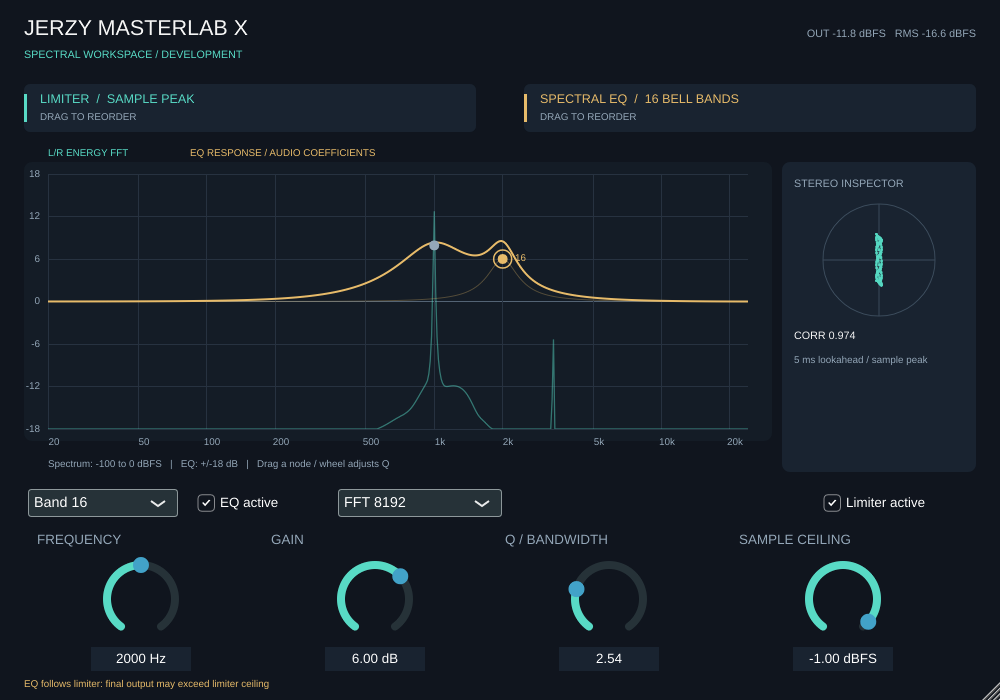
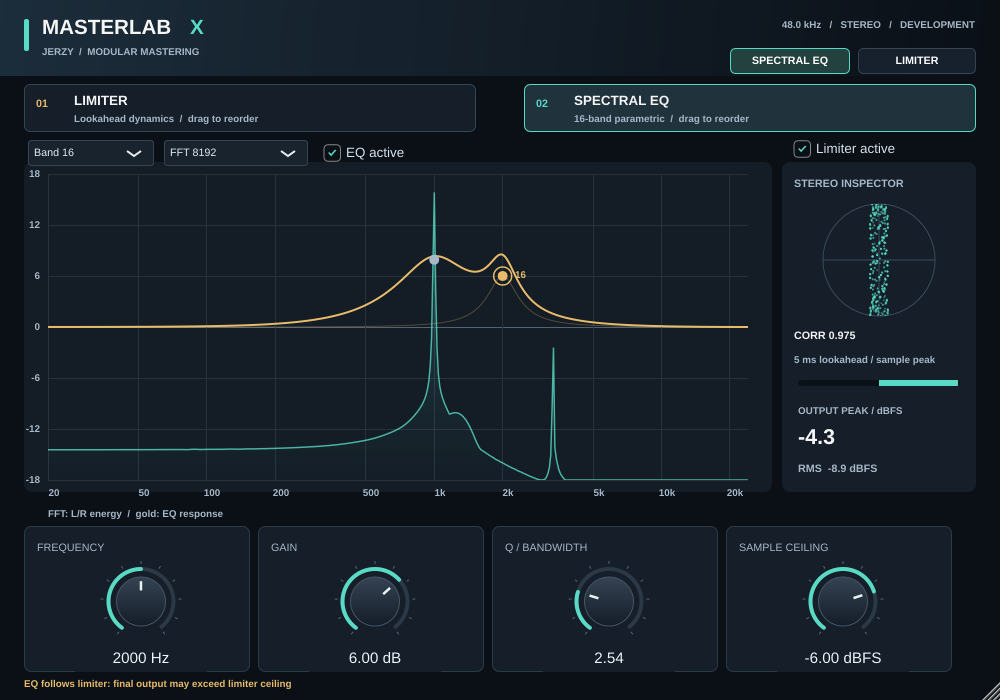
Redesign studio GUI with custom controls, clearer metering and compact workspaces

diff --git a/Source/Editor.h b/Source/Editor.h
@@ -1,5 +1,6 @@
 #pragma once
 #include "Analysis.h"
+#include "StudioTheme.h"
 
 // Included after Processor. GUI work and FFT never run in the audio callback.
 class Editor final : public juce::AudioProcessorEditor,
@@ -9,7 +10,7 @@ class Editor final : public juce::AudioProcessorEditor,
     using SliderAttachment = juce::AudioProcessorValueTreeState::SliderAttachment;
     using ButtonAttachment = juce::AudioProcessorValueTreeState::ButtonAttachment;
     Processor& processor;
-    juce::LookAndFeel_V4 theme;
+    StudioTheme theme;
     juce::TooltipWindow tooltips{this, 600};
     juce::ComboBox bandChoice, fftChoice;
     juce::TextButton eqView{"SPECTRAL EQ"}, limiterView{"LIMITER"};
@@ -25,38 +26,62 @@ class Editor final : public juce::AudioProcessorEditor,
         eqView.setToggleState(!enabled,juce::dontSendNotification);limiterView.setToggleState(enabled,juce::dontSendNotification);repaint();
     }
     void paintLimiter(juce::Graphics& g){
-        auto area=plot();g.setColour(panel);g.fillRoundedRectangle(area.expanded(24,12),8);
-        g.setFont(11);
-        for(int db:{0,6,12,18,24}){float y=area.getY()+area.getHeight()*db/24.f;g.setColour(juce::Colour(0xff344151));g.drawHorizontalLine(static_cast<int>(y),area.getX(),area.getRight());g.setColour(muted);g.drawText(juce::String(db),8,static_cast<int>(y)-8,32,16,juce::Justification::right);}
-        g.setColour(curve);g.drawText("GAIN REDUCTION ENVELOPE / dB",48,143,getWidth()-300,20,juce::Justification::left);
+        const auto area=plot();
+        const float split=area.getY()+area.getHeight()*.65f;
+        const float grHeight=split-area.getY()-22;
+        g.setColour(panel);g.fillRoundedRectangle(area.expanded(24,12),8);
+        g.setColour(juce::Colour(0xff0c131c));g.fillRect(area);
+        g.setFont(12);
+        for(int seconds=0;seconds<=10;seconds+=2){float x=area.getX()+area.getWidth()*seconds/10.f;g.setColour(juce::Colour(0xff24313e));g.drawVerticalLine(static_cast<int>(x),area.getY(),area.getBottom());g.setColour(muted);g.drawText(seconds==10?"NOW":juce::String(seconds-10)+" s",static_cast<int>(x)-18,static_cast<int>(area.getBottom())+5,40,18,juce::Justification::centred);}
+        for(int db:{0,6,12,18,24}){float y=area.getY()+grHeight*db/24.f;g.setColour(juce::Colour(0xff293645));g.drawHorizontalLine(static_cast<int>(y),area.getX(),area.getRight());g.setColour(muted);g.drawText(juce::String(db),8,static_cast<int>(y)-8,32,16,juce::Justification::right);}
+        g.setColour(curve);g.setFont(12);g.drawText("GAIN REDUCTION",48,144,170,20,juce::Justification::left);
+        g.setColour(muted);g.drawText("10 s  /  AUDIO CLOCK",getWidth()-476,144,224,20,juce::Justification::right);
+        g.setColour(accent);g.setFont(11);g.drawText("OUTPUT PEAK   -60 ... 0 dBFS",static_cast<int>(area.getX())+10,static_cast<int>(split)-18,240,18,juce::Justification::left);
+        g.setColour(juce::Colour(0xff354657));g.drawHorizontalLine(static_cast<int>(split),area.getX(),area.getRight());
         float maximumReduction=0,maximumPeak=0;
         if(historyCount){
             const auto latest=limiterHistory[(historyHead+999)%1000].endSample;
             const double duration=sampleRate()*10.;
-            juce::Path reduction,output;bool started=false;std::uint64_t previous=0;
+            juce::Path reduction,output,fill;bool started=false;std::uint64_t previous=0;float lastX=0;
             for(size_t i=0;i<historyCount;++i){const auto& frame=limiterHistory[(historyHead+1000-historyCount+i)%1000];
                 double age=static_cast<double>(latest-frame.endSample);if(age>duration)continue;
                 float x=area.getRight()-static_cast<float>(age/duration)*area.getWidth();
                 float gr=-juce::Decibels::gainToDecibels(frame.minimumGain,-120.f);
-                float y=area.getY()+area.getHeight()*juce::jlimit(0.f,1.f,gr/24.f);
+                float y=area.getY()+grHeight*juce::jlimit(0.f,1.f,gr/24.f);
                 float peakDb=juce::Decibels::gainToDecibels(frame.outputPeak,-100.f);
-                float py=area.getBottom()-area.getHeight()*juce::jlimit(0.f,1.f,(peakDb+60)/60.f);
+                float py=area.getBottom()-(area.getBottom()-split-8)*juce::jlimit(0.f,1.f,(peakDb+60)/60.f);
                 const bool gap=started&&frame.endSample-previous>std::ceil(sampleRate()*.01)+1;
-                if(!started||gap){reduction.startNewSubPath(x,y);output.startNewSubPath(x,py);}else{reduction.lineTo(x,y);output.lineTo(x,py);}
-                started=true;previous=frame.endSample;maximumReduction=std::max(maximumReduction,gr);maximumPeak=std::max(maximumPeak,frame.outputPeak);
+                if(!started||gap){if(started){fill.lineTo(lastX,area.getY());fill.closeSubPath();}reduction.startNewSubPath(x,y);output.startNewSubPath(x,py);fill.startNewSubPath(x,area.getY());fill.lineTo(x,y);}else{reduction.lineTo(x,y);output.lineTo(x,py);fill.lineTo(x,y);}
+                started=true;previous=frame.endSample;lastX=x;maximumReduction=std::max(maximumReduction,gr);maximumPeak=std::max(maximumPeak,frame.outputPeak);
             }
-            juce::Graphics::ScopedSaveState save(g);g.reduceClipRegion(area.toNearestInt());g.setColour(accent.withAlpha(.55f));g.strokePath(output,juce::PathStrokeType(1.2f));g.setColour(curve);g.strokePath(reduction,juce::PathStrokeType(2));
+            if(started){fill.lineTo(lastX,area.getY());fill.closeSubPath();}
+            juce::Graphics::ScopedSaveState save(g);g.reduceClipRegion(area.toNearestInt());
+            g.setGradientFill(juce::ColourGradient(curve.withAlpha(.23f),0,area.getY(),curve.withAlpha(.04f),0,split,false));g.fillPath(fill);
+            g.setColour(accent.withAlpha(.10f));g.strokePath(output,juce::PathStrokeType(5));g.setColour(accent);g.strokePath(output,juce::PathStrokeType(1.6f));
+            g.setColour(curve.withAlpha(.10f));g.strokePath(reduction,juce::PathStrokeType(7));g.setColour(curve);g.strokePath(reduction,juce::PathStrokeType(2));
         }
-        int x=getWidth()-218;g.setColour(panel);g.fillRoundedRectangle(static_cast<float>(x),162.f,194.f,static_cast<float>(getHeight()-390),8);
-        g.setColour(juce::Colours::whitesmoke);g.setFont(13);g.drawText("LIMITER INSPECTOR",x+12,174,174,20,juce::Justification::left);
-        g.setFont(12);g.drawText("GR max / 10 s: "+juce::String(maximumReduction,1)+" dB",x+12,207,174,20,juce::Justification::left);
-        g.drawText("Out max: "+juce::String(juce::Decibels::gainToDecibels(maximumPeak),1)+" dBFS",x+12,231,174,20,juce::Justification::left);
-        g.setColour(muted);g.drawText("PDC: "+juce::String(processor.getLatencySamples())+" samples",x+12,255,174,20,juce::Justification::left);
-        g.setFont(11);g.drawText("Lookahead 5 ms / release "+juce::String(processor.state.getRawParameterValue("limiterRelease")->load(),1)+" ms",48,static_cast<int>(area.getBottom())+5,getWidth()-300,20,juce::Justification::left);
-        g.drawText("10 s audio history | GR: 0..24 dB | teal: output -60..0 dBFS",48,static_cast<int>(area.getBottom())+25,getWidth()-300,20,juce::Justification::left);
-        g.drawText("Envelope includes route/bypass blend; not total chain attenuation.",28,getHeight()-226,getWidth()-240,20,juce::Justification::left);
-        g.drawText("SAMPLE PEAK ONLY / NO TRUE PEAK",28,getHeight()-203,getWidth()-240,20,juce::Justification::left);
-        if(!historyCount||juce::Time::getMillisecondCounterHiRes()-lastLimiterUpdate>500)g.drawText("No new audio / history held",x+12,280,174,20,juce::Justification::left);
+        const int x=getWidth()-218;
+        g.setColour(panel);g.fillRoundedRectangle(static_cast<float>(x),162.f,194.f,area.getHeight()+36,8);
+        g.setColour(muted);g.setFont(12);g.drawText("MASTER OUTPUT",x+16,176,162,20,juce::Justification::left);
+        g.setColour(juce::Colours::whitesmoke);g.setFont(juce::Font(juce::FontOptions(34.f,juce::Font::bold)));g.drawText(juce::String(juce::Decibels::gainToDecibels(processor.peak.load()),1),x+16,202,150,42,juce::Justification::left);
+        g.setColour(muted);g.setFont(12);g.drawText("SAMPLE PEAK / dBFS",x+16,244,162,18,juce::Justification::left);
+        g.setColour(curve);g.setFont(24);g.drawText(juce::String(maximumReduction,1)+" dB",x+16,274,162,30,juce::Justification::left);
+        g.setColour(muted);g.setFont(11);g.drawText("MAX GR / VISIBLE HISTORY",x+16,307,166,18,juce::Justification::left);
+        if(area.getHeight()>235){
+            const float top=345,bottom=area.getBottom()-10,height=bottom-top;
+            for(int k=0;k<2;++k){float level=k==0?processor.peak.load():processor.rms.load();float db=juce::Decibels::gainToDecibels(level,-60.f);float f=juce::jlimit(0.f,1.f,(db+60)/60);
+                float bx=x+20.f+k*76;g.setColour(juce::Colour(0xff0a1119));g.fillRoundedRectangle(bx,top,52,height,4);
+                g.setGradientFill(juce::ColourGradient(accent,bx,bottom-height,juce::Colour(0xff267d86),bx,bottom,false));g.fillRect(bx,bottom-height*f,52.f,height*f);
+                g.setColour(muted);g.setFont(11);g.drawText(k==0?"PEAK":"RMS",static_cast<int>(bx),static_cast<int>(bottom)+4,52,16,juce::Justification::centred);
+            }
+        }
+        const int dock=getHeight()-174,cell=(getWidth()-64)/4;
+        g.setColour(muted);g.setFont(12);g.drawText("LOOKAHEAD",48+cell*2,dock+15,cell-32,20,juce::Justification::left);
+        g.setColour(juce::Colours::whitesmoke);g.setFont(26);g.drawText("5.0 ms",48+cell*2,dock+41,cell-32,32,juce::Justification::left);
+        g.setColour(muted);g.setFont(12);g.drawText("PDC  "+juce::String(processor.getLatencySamples())+" samples",48+cell*2,dock+88,cell-32,20,juce::Justification::left);
+        g.drawText(juce::String(sampleRate()/1000,1)+" kHz / stereo",48+cell*2,dock+109,cell-32,20,juce::Justification::left);
+
+        if(!historyCount||juce::Time::getMillisecondCounterHiRes()-lastLimiterUpdate>500){g.setColour(muted);g.drawText("WAITING FOR AUDIO",area.toNearestInt().reduced(10),juce::Justification::centred);}
     }
     juce::Slider frequency, gain, quality, ceiling, drive, release;
     juce::Label frequencyLabel, gainLabel, qualityLabel, ceilingLabel, driveLabel, releaseLabel;
@@ -74,7 +99,7 @@ class Editor final : public juce::AudioProcessorEditor,
     double lastAnalysis=0;
     std::array<juce::Point<float>,1024> scope{};
     int head = 0;
-    const juce::Colour background{0xff10151e}, panel{0xff192330}, muted{0xff94a7b8};
+    const juce::Colour background{0xff0b1017}, panel{0xff151e29}, muted{0xffa7b8c8};
     const juce::Colour accent{0xff58dac5}, curve{0xffe7bb6a};
 
     juce::String parameterId(const char* base, int band) const {
@@ -85,7 +110,7 @@ class Editor final : public juce::AudioProcessorEditor,
     }
     double sampleRate() const { return processor.displayRate.load(); }
     juce::Rectangle<float> plot() const {
-        return {48.f, 174.f, std::max(200.f, getWidth() - 300.f), std::max(100.f, getHeight() - 445.f)};
+        return {48.f, 174.f, std::max(200.f, getWidth() - 300.f), std::max(100.f, getHeight() - 394.f)};
     }
     float xForFrequency(double hz) const {
         auto area = plot();
@@ -146,7 +171,7 @@ class Editor final : public juce::AudioProcessorEditor,
         addAndMakeVisible(slider);addAndMakeVisible(label);
         label.setText(name,juce::dontSendNotification);label.setColour(juce::Label::textColourId,muted);
         slider.setSliderStyle(juce::Slider::RotaryHorizontalVerticalDrag);
-        slider.setTextBoxStyle(juce::Slider::TextBoxBelow,false,100,24);
+        slider.setTextBoxStyle(juce::Slider::TextBoxBelow,false,132,28);
         slider.setComponentID(id);slider.setColour(juce::Slider::rotarySliderFillColourId,accent);
     }
 public:
@@ -187,17 +212,17 @@ public:
         eqView.onClick=[this]{showLimiter(false);};limiterView.onClick=[this]{showLimiter(true);};
         eqView.setClickingTogglesState(false);limiterView.setClickingTogglesState(false);
         selectBand(0);showLimiter(false);
-        setResizable(true,true);setResizeLimits(750,550,2000,1400);setSize(1100,720);startTimerHz(30);
+        setResizable(true,true);setResizeLimits(750,550,2000,1400);setSize(1200,800);startTimerHz(30);
     }
     ~Editor() override {stopTimer();endDrag();setLookAndFeel(nullptr);}
     void resized() override {
         eqView.setBounds(getWidth()-270,48,120,26);limiterView.setBounds(getWidth()-142,48,118,26);
-        const int top=getHeight()-171,width=(getWidth()-64)/4;
-        for(int i=0;i<4;++i){auto* label=std::array<juce::Label*,4>{&frequencyLabel,&gainLabel,&qualityLabel,&ceilingLabel}[i];auto* slider=std::array<juce::Slider*,4>{&frequency,&gain,&quality,&ceiling}[i];label->setBounds(32+i*width,top,width-12,22);slider->setBounds(32+i*width,top+22,width-16,120);}
-        driveLabel.setBounds(32,top,width-12,22);drive.setBounds(32,top+22,width-16,120);
-        releaseLabel.setBounds(32+width,top,width-12,22);release.setBounds(32+width,top+22,width-16,120);
-        bandChoice.setBounds(28,getHeight()-211,150,28);fftChoice.setBounds(338,getHeight()-211,164,28);
-        eqEnabled.setBounds(194,getHeight()-211,125,28);limiterEnabled.setBounds(getWidth()-180,getHeight()-211,160,28);
+        const int top=getHeight()-163,width=(getWidth()-64)/4;
+        for(int i=0;i<4;++i){auto* label=std::array<juce::Label*,4>{&frequencyLabel,&gainLabel,&qualityLabel,&ceilingLabel}[i];auto* slider=std::array<juce::Slider*,4>{&frequency,&gain,&quality,&ceiling}[i];label->setBounds(32+i*width,top,width-12,22);slider->setBounds(32+i*width,top+22,width-16,113);}
+        driveLabel.setBounds(32,top,width-12,22);drive.setBounds(32,top+22,width-16,113);
+        releaseLabel.setBounds(32+width,top,width-12,22);release.setBounds(32+width,top+22,width-16,113);
+        bandChoice.setBounds(28,140,126,26);fftChoice.setBounds(164,140,144,26);
+        eqEnabled.setBounds(320,140,125,26);limiterEnabled.setBounds(getWidth()-210,136,186,26);
     }
     bool isInterestedInDragSource(const SourceDetails& details) override {return details.description=="eq"||details.description=="limiter";}
     void itemDropped(const SourceDetails& details) override {
@@ -223,19 +248,33 @@ public:
         bool right=event.getMouseDownX()>getWidth()/2,first=processor.state.getRawParameterValue("order")->load()>.5f;
         startDragging((right?!first:first)?"limiter":"eq",this);
     }
-    void mouseUp(const juce::MouseEvent&) override {endDrag();}
+    void mouseUp(const juce::MouseEvent& event) override {
+        const bool moved=event.mouseWasDraggedSinceMouseDown();endDrag();
+        if(!moved&&event.position.y>=84&&event.position.y<=132){bool first=processor.state.getRawParameterValue("order")->load()>.5f;showLimiter(event.position.x>getWidth()/2?!first:first);}
+    }
     void mouseWheelMove(const juce::MouseEvent& event,const juce::MouseWheelDetails& wheel) override {
         if(!showingLimiter&&plot().contains(event.position)&&event.position.getDistanceFrom(node(selectedBand))<24){setParameter("q",juce::jlimit(.1f,10.f,value("q",selectedBand)*std::exp(wheel.deltaY*2)),true);repaint();}
         else AudioProcessorEditor::mouseWheelMove(event,wheel);
     }
     void paint(juce::Graphics& g) override {
-        g.fillAll(background);g.setColour(juce::Colours::whitesmoke);g.setFont(24);
-        g.drawText("JERZY MASTERLAB X",24,13,getWidth()-300,30,juce::Justification::left);
-        g.setColour(accent);g.setFont(12);g.drawText(showingLimiter?"LIMITER WORKSPACE / DEVELOPMENT":"SPECTRAL WORKSPACE / DEVELOPMENT",24,44,420,22,juce::Justification::left);
-        g.setColour(muted);g.drawText("OUT "+juce::String(juce::Decibels::gainToDecibels(processor.peak.load()),1)+" dBFS   RMS "+juce::String(juce::Decibels::gainToDecibels(processor.rms.load()),1)+" dBFS",getWidth()-330,22,306,24,juce::Justification::right);
+        g.fillAll(background);
+        g.setGradientFill(juce::ColourGradient(juce::Colour(0xff1c2d3b),0,0,background,static_cast<float>(getWidth()),100,false));g.fillRect(0,0,getWidth(),76);
+        g.setColour(accent);g.fillRoundedRectangle(24.f,19.f,5.f,32.f,2);
+        g.setColour(juce::Colours::whitesmoke);g.setFont(juce::Font(juce::FontOptions(23.f,juce::Font::bold)));g.drawText("MASTERLAB",42,12,190,30,juce::Justification::left);
+        g.setColour(accent);g.drawText("X",190,12,40,30,juce::Justification::left);
+        g.setColour(muted);g.setFont(11);g.drawText("JERZY  /  MODULAR MASTERING",42,43,300,18,juce::Justification::left);
+        g.drawText(juce::String(sampleRate()/1000,1)+" kHz   /   STEREO   /   DEVELOPMENT",getWidth()-335,14,310,22,juce::Justification::right);
+        const int dock=getHeight()-174,cell=(getWidth()-64)/4;
+        for(int i=0;i<4;++i){g.setColour(panel);g.fillRoundedRectangle(static_cast<float>(24+i*cell),static_cast<float>(dock),static_cast<float>(cell-8),146.f,7);g.setColour(juce::Colour(0xff2b3a49));g.drawRoundedRectangle(static_cast<float>(24+i*cell)+.5f,static_cast<float>(dock)+.5f,static_cast<float>(cell-9),145.f,7,1);}
         bool first=processor.state.getRawParameterValue("order")->load()>.5f;
-        for(int i=0;i<2;++i){int x=24+i*(getWidth()/2);g.setColour(panel);g.fillRoundedRectangle(static_cast<float>(x),84.f,getWidth()*.5f-48,48,6);g.setColour(i==0?accent:curve);g.fillRect(x,94,3,28);g.setFont(14);g.drawText((i==0?!first:first)?"SPECTRAL EQ  /  16 BELL BANDS":"LIMITER  /  SAMPLE PEAK",x+16,89,getWidth()/2-70,20,juce::Justification::left);g.setColour(muted);g.setFont(11);g.drawText("DRAG TO REORDER",x+16,109,220,16,juce::Justification::left);}
-        if(showingLimiter){paintLimiter(g);if(first){g.setColour(curve);g.drawText("EQ follows limiter: final output may exceed limiter ceiling",24,getHeight()-25,getWidth()-48,18,juce::Justification::left);}return;}
+        for(int i=0;i<2;++i){int x=24+i*(getWidth()/2);bool isEq=i==0?!first:first,active=isEq?!showingLimiter:showingLimiter;auto colour=isEq?accent:curve;
+            g.setColour(active?juce::Colour(0xff20323c):panel);g.fillRoundedRectangle(static_cast<float>(x),84.f,getWidth()*.5f-48,48,6);
+            g.setColour(active?colour:juce::Colour(0xff354553));g.drawRoundedRectangle(static_cast<float>(x)+.5f,84.5f,getWidth()*.5f-49,47,6,1);
+            g.setColour(colour);g.setFont(12);g.drawText("0"+juce::String(i+1),x+12,92,30,24,juce::Justification::left);
+            g.setColour(juce::Colours::whitesmoke);g.setFont(juce::Font(juce::FontOptions(15.f,juce::Font::bold)));g.drawText(isEq?"SPECTRAL EQ":"LIMITER",x+50,90,getWidth()/2-116,22,juce::Justification::left);
+            g.setColour(muted);g.setFont(11);g.drawText(isEq?"16-band parametric  /  drag to reorder":"Lookahead dynamics  /  drag to reorder",x+50,111,getWidth()/2-116,16,juce::Justification::left);
+        }
+        if(showingLimiter){paintLimiter(g);g.setColour(first?curve:muted);g.setFont(11);g.drawText(first?"EQ follows limiter: final output may exceed limiter ceiling":"SAMPLE PEAK  /  True Peak unavailable",24,getHeight()-25,getWidth()-48,18,juce::Justification::left);return;}
         auto area=plot();g.setColour(juce::Colour(0xff141c26));g.fillRoundedRectangle(area.expanded(24,12),8);
         g.setFont(11);
         for(float db:{-18.f,-12.f,-6.f,0.f,6.f,12.f,18.f}){float y=yForGain(db);g.setColour(db==0?juce::Colour(0xff536374):juce::Colour(0xff273240));g.drawHorizontalLine(static_cast<int>(y),area.getX(),area.getRight());g.setColour(muted);g.drawText(juce::String(db,0),8,static_cast<int>(y)-8,32,16,juce::Justification::right);}
@@ -244,17 +283,25 @@ public:
             for(int i=0;i<512;++i){double hz=20*std::pow(sampleRate()*.5/20,i/511.);float x=area.getX()+area.getWidth()*i/511.f;float binPosition=juce::jlimit(0.f,static_cast<float>((1<<fftOrder)/2-1),static_cast<float>(hz*(1<<fftOrder)/sampleRate()));int bin=static_cast<int>(binPosition);float level=spectrum[bin]+(binPosition-bin)*(spectrum[bin+1]-spectrum[bin]);float db=juce::Decibels::gainToDecibels(level,-100.f);float sy=area.getBottom()-area.getHeight()*juce::jlimit(0.f,1.f,(db+100)/100.f);
                 if(i==0)spectral.startNewSubPath(x,sy);else spectral.lineTo(x,sy);
                 if(haveResponse){std::complex<double> transfer{1,0};for(const auto& band:response.bands)transfer*=band.response(response.rate,hz);transfer=(1.-response.eqMix)+static_cast<double>(response.eqMix)*transfer;float y=yForGain(static_cast<float>(20*std::log10(std::max(1e-12,std::abs(transfer)))));if(i==0)total.startNewSubPath(x,y);else total.lineTo(x,y);}}
-            g.setColour(accent.withAlpha(.48f));g.strokePath(spectral,juce::PathStrokeType(1.3f));
+            auto spectralFill=spectral;spectralFill.lineTo(area.getRight(),area.getBottom());spectralFill.lineTo(area.getX(),area.getBottom());spectralFill.closeSubPath();g.setGradientFill(juce::ColourGradient(accent.withAlpha(.22f),0,area.getY(),accent.withAlpha(.01f),0,area.getBottom(),false));g.fillPath(spectralFill);g.setColour(accent.withAlpha(.8f));g.strokePath(spectral,juce::PathStrokeType(1.5f));
             if(haveResponse){juce::Path individual;for(int i=0;i<512;++i){double hz=20*std::pow(sampleRate()*.5/20,i/511.);float x=area.getX()+area.getWidth()*i/511.f;float y=yForGain(static_cast<float>(20*std::log10(std::max(1e-12,response.bands[selectedBand].magnitude(response.rate,hz)))));if(i==0)individual.startNewSubPath(x,y);else individual.lineTo(x,y);}g.setColour(curve.withAlpha(.3f));g.strokePath(individual,juce::PathStrokeType(1));g.setColour(curve);g.strokePath(total,juce::PathStrokeType(2));}
             for(int i=0;i<16;++i){if(i!=selectedBand&&std::abs(value("gain",i))<.01f)continue;auto position=node(i);g.setColour(i==selectedBand?curve:muted);g.fillEllipse(position.x-5,position.y-5,10,10);if(i==selectedBand){g.drawEllipse(position.x-9,position.y-9,18,18,1.5f);g.setFont(11);g.drawText(juce::String(i+1),static_cast<int>(position.x)+13,static_cast<int>(position.y)-12,26,22,juce::Justification::left);}}
         }
-        int inspectorX=getWidth()-218;g.setColour(panel);g.fillRoundedRectangle(static_cast<float>(inspectorX),162.f,194.f,static_cast<float>(getHeight()-390),8);g.setColour(muted);g.setFont(12);g.drawText("STEREO INSPECTOR",inspectorX+12,174,170,20,juce::Justification::left);
+        int inspectorX=getWidth()-218;g.setColour(panel);g.fillRoundedRectangle(static_cast<float>(inspectorX),162.f,194.f,static_cast<float>(getHeight()-370),8);g.setColour(muted);g.setFont(12);g.drawText("STEREO INSPECTOR",inspectorX+12,174,170,20,juce::Justification::left);
         const float radius=std::min(56.f,(getHeight()-488.f)*.5f),cx=inspectorX+97.f,cy=204.f+radius;g.setColour(juce::Colour(0xff3c4c5c));g.drawEllipse(cx-radius,cy-radius,2*radius,2*radius,1);g.drawLine(cx-radius,cy,cx+radius,cy);g.drawLine(cx,cy-radius,cx,cy+radius);
         {juce::Graphics::ScopedSaveState save(g);g.reduceClipRegion(juce::Rectangle<int>(inspectorX+24,204,146,static_cast<int>(radius*2)));g.setColour(accent.withAlpha(.45f));for(auto point:scope)g.fillEllipse(cx+point.x*radius-1,cy-point.y*radius-1,2,2);}
         g.setColour(juce::Colours::whitesmoke);g.drawText("CORR "+juce::String(processor.correlation.load(),3),inspectorX+12,static_cast<int>(cy+radius+10),170,20,juce::Justification::left);
         g.setColour(muted);g.setFont(11);g.drawText("5 ms lookahead / sample peak",inspectorX+12,static_cast<int>(cy+radius+34),170,20,juce::Justification::left);
-        g.setColour(accent);g.drawText("L/R ENERGY FFT",48,143,130,20,juce::Justification::left);g.setColour(curve);g.drawText(haveResponse?"EQ RESPONSE / AUDIO COEFFICIENTS":"EQ RESPONSE / WAITING FOR AUDIO",190,143,getWidth()-450,20,juce::Justification::left);
-        g.setColour(muted);g.setFont(11);g.drawText("Spectrum: -100 to 0 dBFS   |   EQ: +/-18 dB   |   Drag a node / wheel adjusts Q",48,static_cast<int>(area.getBottom())+25,getWidth()-300,20,juce::Justification::left);
+        const float correlation=juce::jlimit(-1.f,1.f,processor.correlation.load());
+        const float barY=cy+radius+64;
+        g.setColour(juce::Colour(0xff0a1119));g.fillRoundedRectangle(inspectorX+16.f,barY,162,6,3);
+        g.setColour(correlation<0?juce::Colour(0xffe68a79):accent);float correlationX=inspectorX+97.f+correlation*81.f;g.fillRect(std::min(inspectorX+97.f,correlationX),barY,std::max(1.f,std::abs(correlation)*81.f),6.f);
+        if(getHeight()>650){g.setColour(muted);g.setFont(11);g.drawText("OUTPUT PEAK / dBFS",inspectorX+16,static_cast<int>(barY)+22,162,18,juce::Justification::left);
+            g.setColour(juce::Colours::whitesmoke);g.setFont(24);g.drawText(juce::String(juce::Decibels::gainToDecibels(processor.peak.load()),1),inspectorX+16,static_cast<int>(barY)+42,162,30,juce::Justification::left);
+            g.setColour(muted);g.setFont(12);g.drawText("RMS  "+juce::String(juce::Decibels::gainToDecibels(processor.rms.load()),1)+" dBFS",inspectorX+16,static_cast<int>(barY)+80,162,18,juce::Justification::left);
+        }
+        g.setColour(muted);g.setFont(11);g.drawText("FFT: L/R energy  /  gold: EQ response",48,static_cast<int>(area.getBottom())+25,getWidth()-300,18,juce::Justification::left);
+        g.setColour(muted);g.setFont(11);if(!first)g.drawText("Drag nodes to shape tone  /  Mouse wheel adjusts Q",24,getHeight()-25,getWidth()-48,18,juce::Justification::left);
         if(first){g.setColour(curve);g.drawText("EQ follows limiter: final output may exceed limiter ceiling",24,getHeight()-25,getWidth()-48,18,juce::Justification::left);}
     }
 };

diff --git a/tests/GuiSmoke.h b/tests/GuiSmoke.h
@@ -10,7 +10,7 @@ class GuiSmoke final : private juce::Timer {
     juce::RangedAudioParameter* parameter(const char* id){for(auto* p:processor.getParameters())if(auto* ranged=dynamic_cast<juce::RangedAudioParameter*>(p))if(ranged->paramID==id)return ranged;return nullptr;}
     float actual(const char* id){auto* p=parameter(id);return p->convertFrom0to1(p->getValue());}
     void open(){editor.reset(processor.createEditor());editor->addToDesktop(0);editor->setVisible(true);phase=0;}
-    void feed(int blocks){juce::AudioBuffer<float> buffer(2,256);juce::MidiBuffer midi;for(int block=0;block<blocks;++block){for(int i=0;i<256;++i,++sample){buffer.setSample(0,i,.08f*std::sin(juce::MathConstants<float>::twoPi*1000*sample/48000.f)+.04f*std::sin(juce::MathConstants<float>::twoPi*3333*sample/48000.f));buffer.setSample(1,i,.08f*std::sin(juce::MathConstants<float>::twoPi*1000*sample/48000.f));}processor.processBlock(buffer,midi);}}
+    void feed(int blocks){juce::AudioBuffer<float> buffer(2,256);juce::MidiBuffer midi;for(int block=0;block<blocks;++block){for(int i=0;i<256;++i,++sample){float envelope=.35f+1.65f*std::pow(.5f+.5f*std::sin(sample/48000.f*2.1f),3.f);buffer.setSample(0,i,envelope*.08f*std::sin(juce::MathConstants<float>::twoPi*1000*sample/48000.f)+envelope*.04f*std::sin(juce::MathConstants<float>::twoPi*3333*sample/48000.f));buffer.setSample(1,i,envelope*.08f*std::sin(juce::MathConstants<float>::twoPi*1000*sample/48000.f));}processor.processBlock(buffer,midi);}}
     bool gestures(){
         editor->setSize(1000,700);
         auto* choice=dynamic_cast<juce::ComboBox*>(editor->findChildWithID("eq-band"));
@@ -20,11 +20,14 @@ class GuiSmoke final : private juce::Timer {
         if(!choice||!frequency||!gain||!q)return false;
         auto* fftChoice=dynamic_cast<juce::ComboBox*>(editor->findChildWithID("fft-size"));if(!fftChoice)return false;
         int latency=processor.getLatencySamples();for(int order:{12,13,14,15}){fftChoice->setSelectedId(order,juce::sendNotificationSync);if(processor.getLatencySamples()!=latency)return false;}fftChoice->setSelectedId(iteration==1?15:(iteration==2?12:13),juce::sendNotificationSync);
-        auto* ceiling=dynamic_cast<juce::Slider*>(editor->findChildWithID("limiter-ceiling"));if(!ceiling)return false;ceiling->setValue(-24,juce::sendNotificationSync);
+        auto* ceiling=dynamic_cast<juce::Slider*>(editor->findChildWithID("limiter-ceiling"));if(!ceiling)return false;ceiling->setValue(-6,juce::sendNotificationSync);
+        auto* initialDrive=dynamic_cast<juce::Slider*>(editor->findChildWithID("limiter-drive"));
+        auto* initialRelease=dynamic_cast<juce::Slider*>(editor->findChildWithID("limiter-release"));
+        if(!initialDrive||!initialRelease)return false;initialDrive->setValue(12,juce::sendNotificationSync);initialRelease->setValue(150,juce::sendNotificationSync);
         float firstGain=actual("gain");choice->setSelectedId(16,juce::sendNotificationSync);
         frequency->setValue(3333,juce::sendNotificationSync);gain->setValue(-4.5,juce::sendNotificationSync);q->setValue(1.7,juce::sendNotificationSync);
         if(std::abs(actual("frequency16")-3333)>1||std::abs(actual("gain16")+4.5)>.02f||std::abs(actual("q16")-1.7f)>.02f||actual("gain")!=firstGain)return false;
-        auto position=[](float hz,float db){return juce::Point<float>(48+700*std::log(hz/20)/std::log(24000.f/20),174+255*.5f-db*255/36);};
+        auto position=[](float hz,float db){return juce::Point<float>(48+700*std::log(hz/20)/std::log(24000.f/20),174+306*.5f-db*306/36);};
         auto start=position(3333,-4.5),end=position(2000,6);auto now=juce::Time::getCurrentTime();auto source=juce::Desktop::getInstance().getMainMouseSource();
         auto event=[&](juce::Point<float> point,bool dragged){return juce::MouseEvent(source,point,juce::ModifierKeys(juce::ModifierKeys::leftButtonModifier),1,0,0,0,0,editor.get(),editor.get(),now,start,now,1,dragged);};
         struct Listener:juce::AudioProcessorParameter::Listener{int begins=0,ends=0,changes=0;void parameterValueChanged(int,float)override{++changes;}void parameterGestureChanged(int,bool starting)override{if(starting)++begins;else++ends;}} listener;
@@ -35,6 +38,13 @@ class GuiSmoke final : private juce::Timer {
         float oldQ=actual("q16");juce::MouseWheelDetails wheel{};wheel.deltaY=.2f;editor->mouseWheelMove(event(end,false),wheel);
         return actual("q16")>oldQ&&actual("gain")==firstGain;
     }
+    bool controlsFit(){
+        for(int i=0;i<editor->getNumChildComponents();++i){auto* a=editor->getChildComponent(i);if(!a->isVisible())continue;
+            if(!editor->getLocalBounds().contains(a->getBounds()))return false;
+            for(int j=i+1;j<editor->getNumChildComponents();++j){auto* b=editor->getChildComponent(j);if(b->isVisible()&&a->getBounds().intersects(b->getBounds())){std::cerr<<"Overlapping controls: "<<a->getComponentID()<<" / "<<b->getComponentID()<<'\n';return false;}}
+        }
+        return true;
+    }
     bool capture(){
         for(auto size:{juce::Point<int>(750,550),juce::Point<int>(1000,700),juce::Point<int>(2000,1400)}){
             editor->setSize(size.x,size.y);auto image=editor->createComponentSnapshot(editor->getLocalBounds());
@@ -42,22 +52,30 @@ class GuiSmoke final : private juce::Timer {
             int curvePixels=0;for(int y=174;y<size.y-271;++y)for(int x=48;x<size.x-252;++x){auto colour=image.getPixelAt(x,y);if(colour.getRed()>180&&colour.getGreen()>130&&colour.getBlue()<150)++curvePixels;}
             if(curvePixels<400){std::cerr<<"EQ response missing from real GUI frame: "<<curvePixels<<'\n';return false;}
             if(iteration==0&&size.x==1000){auto output=juce::File::getCurrentWorkingDirectory().getChildFile("build-plugin/gui-smoke.png");output.getParentDirectory().createDirectory();juce::FileOutputStream stream(output);stream.setPosition(0);stream.truncate();if(!juce::PNGImageFormat{}.writeImageToStream(image,stream))return false;}
-            for(int i=0;i<editor->getNumChildComponents();++i){auto* child=editor->getChildComponent(i);if(child->isVisible()&&!editor->getLocalBounds().contains(child->getBounds()))return false;}
+            if(!controlsFit())return false;
         }
         auto* limiter=dynamic_cast<juce::Button*>(editor->findChildWithID("view-limiter"));
         auto* eq=dynamic_cast<juce::Button*>(editor->findChildWithID("view-eq"));
         if(!limiter||!eq)return false;
+        // A click on a chain card selects its workspace without changing order.
+        const bool limiterFirst=actual("order")>.5f;
+        auto point=juce::Point<float>(limiterFirst?70.f:editor->getWidth()*.5f+70.f,104.f);
+        auto now=juce::Time::getCurrentTime();auto source=juce::Desktop::getInstance().getMainMouseSource();
+        juce::MouseEvent click(source,point,juce::ModifierKeys(),1,0,0,0,0,editor.get(),editor.get(),now,point,now,1,false);
+        editor->mouseUp(click);
+        if(editor->findChildWithID("eq-frequency")->isVisible())return false;
         limiter->onClick();
         auto* drive=dynamic_cast<juce::Slider*>(editor->findChildWithID("limiter-drive"));
         auto* release=dynamic_cast<juce::Slider*>(editor->findChildWithID("limiter-release"));
         if(!drive||!release||!drive->isVisible()||!release->isVisible())return false;
-        drive->setValue(6,juce::sendNotificationSync);release->setValue(150,juce::sendNotificationSync);
-        if(std::abs(actual("limiterDrive")-6)>.01f||std::abs(actual("limiterRelease")-150)>.11f)return false;
+        drive->setValue(12,juce::sendNotificationSync);release->setValue(150,juce::sendNotificationSync);
+        if(std::abs(actual("limiterDrive")-12)>.01f||std::abs(actual("limiterRelease")-150)>.11f)return false;
         auto* frequency=editor->findChildWithID("eq-frequency");
         if(!frequency||frequency->isVisible()||!editor->findChildWithID("limiter-ceiling")->isVisible())return false;
         for(auto size:{juce::Point<int>(750,550),juce::Point<int>(1000,700),juce::Point<int>(2000,1400)}){
             editor->setSize(size.x,size.y);auto image=editor->createComponentSnapshot(editor->getLocalBounds());
             int historyPixels=0,reductionPixels=0;for(int y=174;y<size.y-271;++y)for(int x=48;x<size.x-252;++x){auto colour=image.getPixelAt(x,y);if(colour.getRed()>180&&colour.getGreen()>130&&colour.getBlue()<150){++historyPixels;if(y>178)++reductionPixels;}}
+            if(!controlsFit())return false;
             if(historyPixels<10||reductionPixels<5){std::cerr<<"Limiter history missing from real GUI frame: "<<historyPixels<<'\n';return false;}
             if(iteration==0&&size.x==1000){auto output=juce::File::getCurrentWorkingDirectory().getChildFile("build-plugin/limiter-smoke.png");juce::FileOutputStream stream(output);stream.setPosition(0);stream.truncate();if(!juce::PNGImageFormat{}.writeImageToStream(image,stream))return false;}
         }
@@ -65,7 +83,7 @@ class GuiSmoke final : private juce::Timer {
         return true;
     }
     void timerCallback()override{
-        if(phase==0){if(!gestures()){fail("EQ controls, drag, wheel or host gestures failed");return;}feed(64);phase=1;return;}
+        if(phase==0){if(!gestures()){fail("EQ controls, drag, wheel or host gestures failed");return;}feed(2250);phase=1;return;}
         if(phase==1){feed(1);phase=2;return;}
         if(!capture()){fail("GUI resize or measured EQ response rendering failed");return;}
         editor->setVisible(false);editor->removeFromDesktop();editor.reset();

diff --git a/Source/StudioTheme.h b/Source/StudioTheme.h
@@ -1,0 +1,33 @@
+#pragma once
+#include <juce_gui_basics/juce_gui_basics.h>
+
+class StudioTheme final : public juce::LookAndFeel_V4 {
+public:
+ StudioTheme(){
+  setColour(juce::Slider::textBoxTextColourId,juce::Colour(0xffedf4fa));
+  setColour(juce::Slider::textBoxOutlineColourId,juce::Colours::transparentBlack);
+  setColour(juce::Slider::textBoxBackgroundColourId,juce::Colour(0xff101720));
+  setColour(juce::ComboBox::backgroundColourId,juce::Colour(0xff19232e));
+  setColour(juce::ComboBox::outlineColourId,juce::Colour(0xff354555));
+  setColour(juce::ComboBox::textColourId,juce::Colour(0xffe5edf5));
+  setColour(juce::ToggleButton::textColourId,juce::Colour(0xffd8e3ed));
+  setColour(juce::ToggleButton::tickColourId,juce::Colour(0xff58dac5));
+ }
+ juce::Font getLabelFont(juce::Label& label) override {return juce::Font(juce::FontOptions(label.getParentComponent()&&dynamic_cast<juce::Slider*>(label.getParentComponent())?17.f:12.f));}
+ juce::Font getTextButtonFont(juce::TextButton&,int) override {return juce::Font(juce::FontOptions(12.f,juce::Font::bold));}
+ void drawButtonBackground(juce::Graphics& g,juce::Button& button,const juce::Colour&,bool hover,bool down) override {
+  auto r=button.getLocalBounds().toFloat().reduced(.5f);bool active=button.getToggleState();
+  g.setColour(juce::Colour(active?0xff23423f:(hover||down?0xff283543:0xff17212d)));g.fillRoundedRectangle(r,5);
+  g.setColour(juce::Colour(active?0xff58dac5:0xff364553));g.drawRoundedRectangle(r,5,1);
+ }
+ void drawRotarySlider(juce::Graphics& g,int x,int y,int width,int height,float position,float start,float end,juce::Slider&) override {
+  const float radius=std::min(width,height)*.5f-10,cx=x+width*.5f,cy=y+height*.5f;
+  auto point=[&](float angle,float r){return juce::Point<float>(cx+std::sin(angle)*r,cy-std::cos(angle)*r);};
+  for(int i=0;i<=10;++i){float a=start+(end-start)*i/10.f;auto a1=point(a,radius+5),a2=point(a,radius+8);g.setColour(juce::Colour(0xff566779));g.drawLine({a1,a2},1);}
+  juce::Path track;track.addCentredArc(cx,cy,radius,radius,0,start,end,true);g.setColour(juce::Colour(0xff2b3946));g.strokePath(track,juce::PathStrokeType(4));
+  juce::Path active;active.addCentredArc(cx,cy,radius,radius,0,start,start+(end-start)*position,true);g.setColour(juce::Colour(0xff58dac5));g.strokePath(active,juce::PathStrokeType(4,juce::PathStrokeType::curved,juce::PathStrokeType::rounded));
+  float inner=std::max(4.f,radius-8);g.setGradientFill(juce::ColourGradient(juce::Colour(0xff354353),cx,cy-inner,juce::Colour(0xff141d28),cx,cy+inner,false));g.fillEllipse(cx-inner,cy-inner,inner*2,inner*2);
+  g.setColour(juce::Colour(0xff465667));g.drawEllipse(cx-inner,cy-inner,inner*2,inner*2,1);
+  auto p1=point(start+(end-start)*position,inner*.45f),p2=point(start+(end-start)*position,inner*.83f);g.setColour(juce::Colour(0xffe3f7f2));g.drawLine({p1,p2},2.5f);
+ }
+};

diff --git a/README.md b/README.md
@@ -16,7 +16,7 @@ Limiter jest wczesnym rozwiązaniem sample-peak z końcowym twardym ograniczenie
 
 Przycisk **LIMITER** otwiera osobny widok. **Drive** (0–24 dB) podnosi sygnał przetwarzany przez limiter, **Release** (10–1000 ms) steruje powrotem obwiedni, a **Sample Ceiling** ustawia limit próbek. Drive znika po płynnym wyłączeniu modułu. Krótki release i wysoki drive mogą zwiększać zniekształcenia.
 
-Złoty wykres pokazuje maksymalną redukcję obwiedni w każdym oknie 10 ms, do 10 sekund czasu audio. Turkusowy pokazuje peak końcowego wyjścia. To różne skale: redukcja 0–24 dB od góry i output -60–0 dBFS od dołu. Podczas przełączania kolejności pokazana obwiednia jest interpolacją obu torów, a nie pomiarem całkowitego tłumienia łańcucha. Przerwy po przepełnieniu kolejki nie są łączone linią. Bez nowego audio historia pozostaje zatrzymana. Historia nie jest zapisywana jako preset.
+Złoty wykres pokazuje maksymalną redukcję obwiedni w każdym oknie 10 ms, do 10 sekund czasu audio. Turkusowy pokazuje peak końcowego wyjścia. Wykresy mają osobne obszary: redukcja 0–24 dB u góry i output -60–0 dBFS poniżej. Podczas przełączania kolejności pokazana obwiednia jest interpolacją obu torów, a nie pomiarem całkowitego tłumienia łańcucha. Przerwy po przepełnieniu kolejki nie są łączone linią. Bez nowego audio historia pozostaje zatrzymana. Historia nie jest zapisywana jako preset.
 
 Stan schema 2 zawiera 54 parametry. Starszy schema 1 jest migrowany z Drive 0 dB i Release 80 ms; dotychczasowe ID parametrów pozostają bez zmian.
 
@@ -51,3 +51,5 @@ Po rzeczywistym udanym CI rozpakuj paczkę i skopiuj cały katalog `JerzyMasterL
 ## Licencje
 
 Przed dystrybucją wybierz i spełnij odpowiednie warunki JUCE 8 (AGPLv3 lub licencja komercyjna; patrz LICENSE.md w JUCE). Nie nadano licencji własnemu kodowi projektu. Zweryfikuj również warunki SDK VST3 zawartego w przypiętej wersji JUCE, pluginval i notices. Ten projekt nie deklaruje zakończonego audytu licencji ani gotowości do komercyjnej publikacji.
+
+Interfejs Studio: wspólna stylistyka EQ i limitera, podświetlenie aktywnego modułu, wybór widoku kliknięciem karty, większe odczyty i wydzielone karty parametrów. Domyślne okno 1200×800, minimum 750×550. Bary Peak i RMS mierzą dwa różne wskaźniki wyjścia; nie są miernikami kanałów L/R.

diff --git a/GUI_SPEC.md b/GUI_SPEC.md
@@ -26,3 +26,12 @@ Zoom 75–200% i HiDPI, osiem pełnych widoków, dodawanie/usuwanie/powielanie m
 Oddzielny przycisk widoku, trzy kontrolki Drive/Release/Sample Ceiling, bypass modułu, historia GR i output peak, maksimum widocznego zakresu oraz odczyt PDC. Dane 10 ms są generowane w DSP; repaint nie tworzy wartości pomiarów. Okno pokazuje do 10 s audio, obwiednia jest ograniczana wizualnie do 24 dB (wartość maksimum nadal pokazuje głębszą redukcję). Wskaźnik braku nowego audio jest statusem dostarczania danych, nie rozpoznaniem transportu hosta. Linie nie łączą luk utraconych ramek. Generacja i zegar wykrywają reset historii. Po ponownym otwarciu edytor odbiera pozostałe ramki kolejki; pełna historia sesji nie jest gwarantowana.
 
 Test GUI przełącza widoki, sprawdza widoczność i powiązanie nowych kontrolek z parametrami, obecność niezerowej redukcji na wykresie i trzy rozmiary okna. Zapisuje również `build-plugin/limiter-smoke.png`; workflow Windows archiwizuje oba zrzuty.
+
+
+## Studio — przebudowa interfejsu
+
+Wspólny `StudioTheme.h` rysuje własne pokrętła ze wskazówką, podziałką i pierścieniem, zakładki z widocznym zaznaczeniem oraz większe wartości numeryczne. Układ ma pasek tożsamości, stale widoczny łańcuch z zaznaczonym modułem, większy obszar wykresu i cztery karty parametrów. Kliknięcie karty zmienia widok; przeciągnięcie nadal zmienia kolejność. Domyślny rozmiar to 1200×800, minimalny pozostaje 750×550.
+
+Limiter oddziela obszar redukcji (0–24 dB) od historii wyjściowego peak (-60–0 dBFS). Wypełnienie i linie pochodzą z tej samej telemetrycznej historii. Oś czasu pokazuje ostatnie 10 sekund audio. Boczne bary podpisane Peak/RMS reprezentują blokowe metryki całego stereo, nie kanały L/R i nie normowany loudness. Przy małym oknie znikają bary, pozostają wartości liczbowe. EQ ma wypełnione widmo, wykres odpowiedzi i odczyt korelacji z paskiem -1..+1. Grafika i gradienty pozostają w rendererze programowym.
+
+Testy GUI używają ponad 10 sekund syntetycznego sygnału o zmiennej amplitudzie. Sprawdzają także kliknięcie karty oraz brak przecięć widocznych kontrolek w obu widokach przy trzech rozmiarach. Zrzuty w README są aktualnymi wynikami tych testów, nie renderami koncepcyjnymi.

diff --git a/RELEASE_NOTES.md b/RELEASE_NOTES.md
@@ -14,3 +14,6 @@ Dedykowany Spectral Workspace zastąpił listę parametrów JUCE. Dodano edycję
 19 października 2026: dodano Limiter Workspace z Drive 0–24 dB, Release 10–1000 ms, ceiling, rzeczywistą historią obwiedni GR i peak wyjścia oraz odczytem PDC. Nowe parametry są automatyzowane, wygładzane i zapisane w schema 2. Schema 1 migruje jawnie do ustawień Drive 0 dB/Release 80 ms. Pomiar 10 ms nie zależy od host buffer size; GUI nie steruje działaniem DSP. Nie dodano True Peak ani LUFS.
 
 Walidacja tego etapu w Linux: Release VST3 zbudowany, CTest 7/7, test obu widoków GUI przy trzech rozmiarach i ponownych otwarciach, pluginval strictness 5 (exit 0), rdzeń ASan/UBSan 4/4. Nowa kompilacja Windows/MSVC i testy FL Studio nie zostały potwierdzone lokalnie.
+
+
+Studio GUI: przebudowano oba widoki, typografię, nawigację modułów i kontrolki; rozdzielono osie historii limitera, powiększono odczyty output i GR, dodano karty parametrów oraz peak/RMS i pasek korelacji z istniejących pomiarów. Zachowano identyfikatory parametrów, stan i DSP. Testy lokalne: build Linux VST3, CTest 7/7, ponowne otwieranie i resize obu widoków, test przecięć kontrolek i kliknięcia modułu, pluginval strictness 5 — zaliczone. Status Windows nowej rewizji wymaga wyniku Actions.
